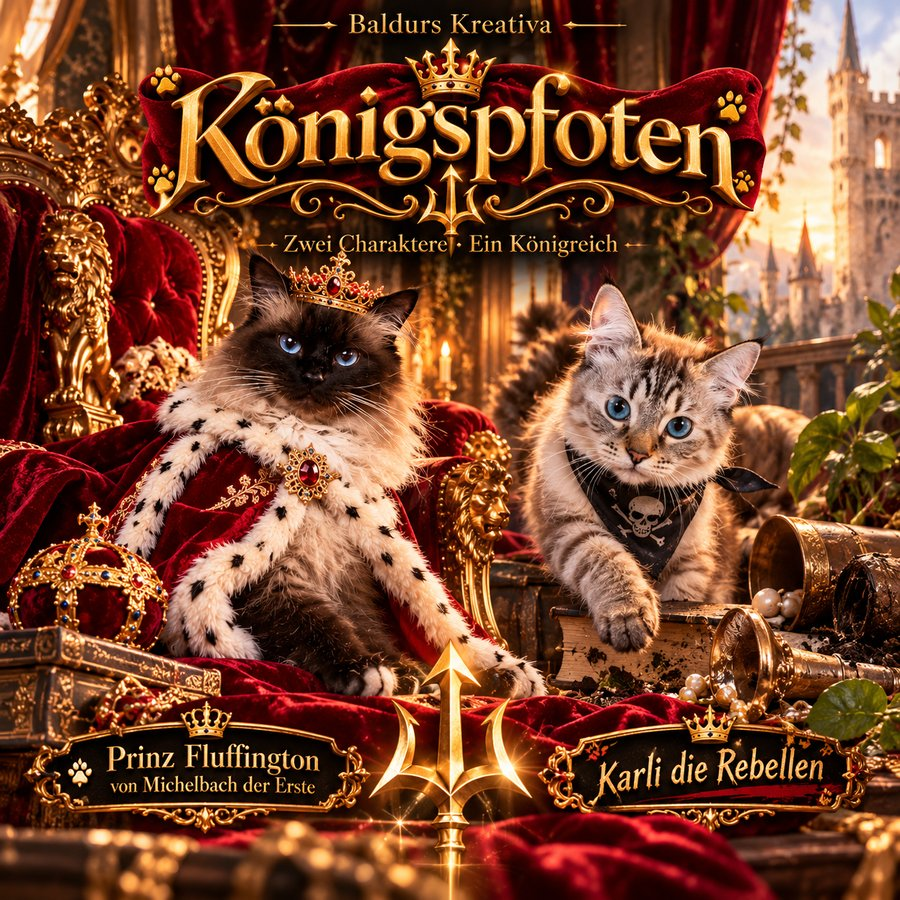
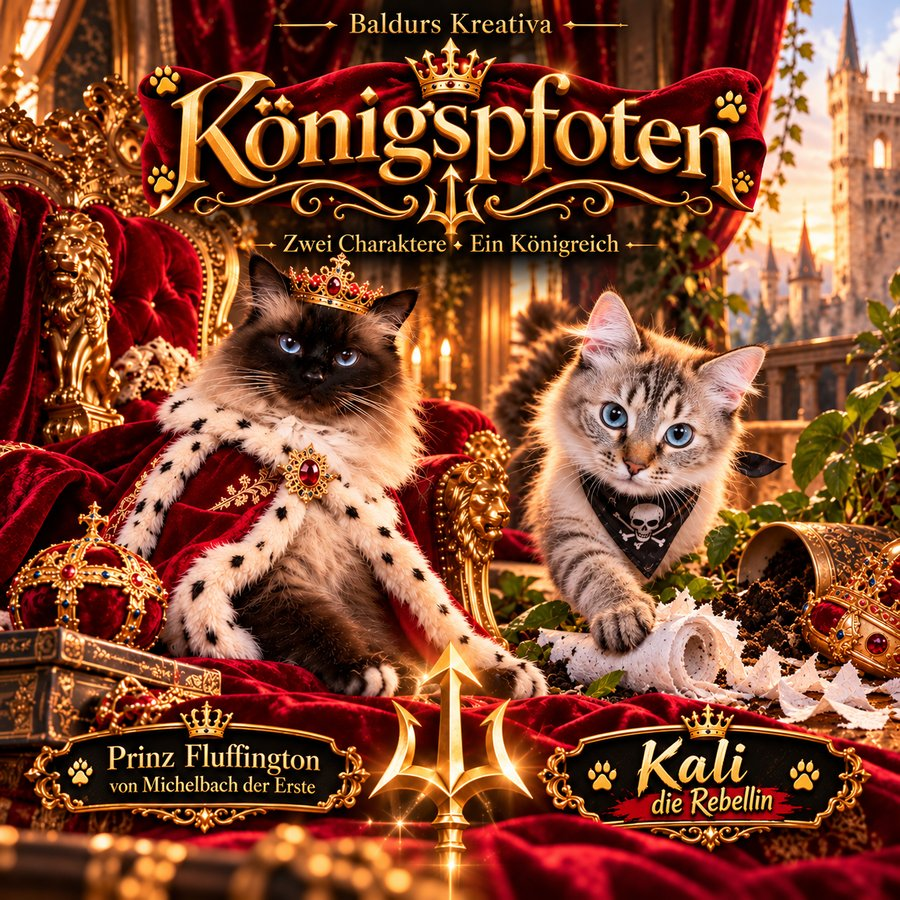
Neues Cover für Königspfoten
Claude-Session: https://claude.ai/code/session_01DmSxkN6SHdps74KHWE1td2

diff --git a/index.html b/index.html
@@ -627,7 +627,7 @@ footer .privacy { font-size: .72rem; opacity: .7; max-width: 34em; }
           <button class="linkish" id="stats-key-del" hidden>Schlüssel von diesem Gerät entfernen</button>
         </div>
       </div>
-      <p class="stats-diag" id="site-version">Seitenversion: 29.10.2026 · 19:15</p>
+      <p class="stats-diag" id="site-version">Seitenversion: 29.10.2026 · 19:30</p>
     </section>
     <div class="bs-foot"><button class="pill" id="bs-leave2">Backstage verlassen</button></div>
   </main>
